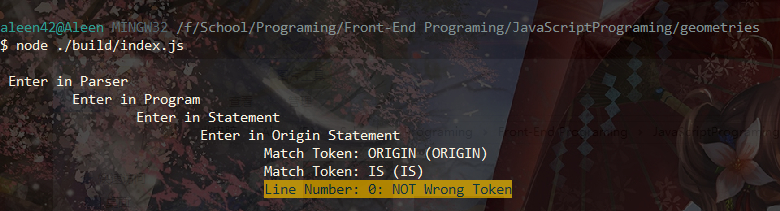
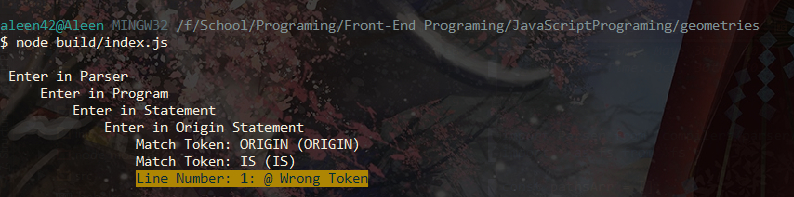
docs: update responding description of testing for the Scanner module

diff --git a/README.md b/README.md
@@ -25,7 +25,7 @@ To parse and understand such a language, we have to create a system containing t
  
 ### Scanner (Lexical Analysis)
  
-Scanner is the module which duty is to scan through the whole sentence and figure out which word is a legal lexeme, while which one is not. For instance, in such a brief language, when you tell the engine to use Scanner module to scan through your giving sentence: "ORIGIN IS NOT", the Scanner module will find out that `NOT` is not a legal lexeme in such a language, and throws out an error like this: `Line Number: 0: NOT Wrong Token`.
+Scanner is the module which duty is to scan through the whole sentence and figure out which word is a legal lexeme, while which one is not. For instance, in such a brief language, when you tell the engine to use Scanner module to scan through your giving sentence: "ORIGIN IS @", the Scanner module will find out that `@` is not a legal lexeme in such a language, and throws out an error like this: `Line Number: 0: NOT Wrong Token`.
 
 <p align="center">
     <img alt="scanner" src="./docs/scanner_wrong_token.jpg" />
@@ -34,7 +34,7 @@ Scanner is the module which duty is to scan through the whole sentence and figur
     <strong>Figure 1.1</strong> Wrong token
 </p>
 
-In order to have a unit testing of this module, I have also written some specification under corresponding folder, which is named with `scanner.spec.js`, and if you want to run this test, you can run the command `npm run test:scanner`. After that, the unit test framework will automatically run the script to test whether some words are legal, including `PI`, `ORIGIN`, `IS`, `COS`, and `NOT`:
+In order to have a unit testing of this module, I have also written some specification under corresponding folder, which is named with `scanner.spec.js`, and if you want to run this test, you can run the command `npm run test:scanner`. After that, the unit test framework will automatically run the script to test whether some words are legal, including `PI`, `ORIGIN`, `IS`, `COS`, `NOT`, some variables and an illegal character `@`:
 
 <p align="center">
     <img alt="scanner_test" src="./docs/scanner_test.jpg" />
